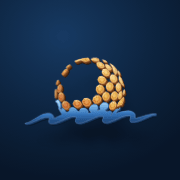
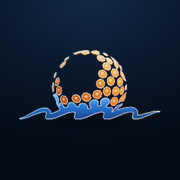
Tar bort kristallkronan: släta glasstenar i loggan, glas på alla delar, nya ikoner och delningsbild
Claude-Session: https://claude.ai/code/session_01YFUY7Y8xkNjWMJsVbpet1G

diff --git a/index.html b/index.html
@@ -15,7 +15,7 @@
 <meta property="og:image" content="https://ringenas-tranare.github.io/og-image.jpg">
 <meta property="og:image:width" content="1200">
 <meta property="og:image:height" content="630">
-<meta property="og:image:alt" content="Ringenäs Tränare – kristalloggan över havet vid Ringenäs">
+<meta property="og:image:alt" content="Ringenäs Tränare – glasloggan över havet vid Ringenäs">
 <meta name="twitter:card" content="summary_large_image">
 <script type="application/ld+json">{"@context":"https://schema.org","@type":"SportsActivityLocation","name":"Ringenäs Tränare","description":"Golflektioner, custom fitting, kurser och Trackman-simulator med PGA-tränare på Ringenäs Golf.","url":"https://ringenas-tranare.github.io/","image":"https://ringenas-tranare.github.io/og-image.jpg","telephone":"+4635161590","email":"oskar@ringenas.com","address":{"@type":"PostalAddress","streetAddress":"Strandlida 469","postalCode":"305 91","addressLocality":"Halmstad","addressCountry":"SE"},"parentOrganization":{"@type":"Organization","name":"Ringenäs Golf AB","url":"https://ringenas.com/"},"sameAs":["https://instagram.com/ringenastranare"]}</script>
 <link rel="manifest" href="manifest.webmanifest">
@@ -360,7 +360,7 @@ nav button span{translate:none!important}
 nav button.on::before{display:none!important}
 .hero::before{display:none!important}
 body:not([data-view="home"]) .scene.bd{opacity:.4}
-/* === Synk, installknapp, kristallogga, blåsande vågor === */
+/* === Synk, installknapp, logga, blåsande vågor === */
 .scene.bd{transform:none!important}
 .inst{position:absolute;top:12px;right:12px;z-index:3;display:inline-flex;align-items:center;gap:6px;width:auto;min-height:36px;padding:.4em .8em;border-radius:99px;font-size:.75rem;font-weight:700;letter-spacing:.04em;color:#eef4fa;background:rgba(255,255,255,.1);border:1px solid rgba(255,255,255,.22);-webkit-backdrop-filter:blur(10px);backdrop-filter:blur(10px)}
 .inst .i{width:16px;height:16px}
@@ -370,8 +370,7 @@ body:not([data-view="home"]) .scene.bd{opacity:.4}
 .sheetc{width:min(100%,460px);padding:22px;border-radius:22px;background:rgba(20,34,52,.92);border:1px solid rgba(255,255,255,.16);box-shadow:0 20px 50px rgba(0,0,0,.5);text-align:center;animation:fi .25s ease}
 .sheetc h2{margin-left:auto;margin-right:auto}
 .sheetc p{color:#dbe5ee;line-height:1.55}
-.lg.big{width:170px!important;height:auto!important;aspect-ratio:1.94;filter:drop-shadow(0 0 1px rgba(255,255,255,.95)) drop-shadow(0 0 16px rgba(170,215,255,.45)) drop-shadow(0 12px 18px rgba(0,0,0,.45))!important;transform:perspective(600px) rotateX(10deg);animation:crystal 9s ease-in-out infinite!important}
-@keyframes crystal{0%,100%{transform:perspective(600px) rotateX(10deg) rotateY(-12deg)}50%{transform:perspective(600px) rotateX(10deg) rotateY(12deg)}}
+.lg.big{width:170px!important;height:auto!important;aspect-ratio:1.94;filter:drop-shadow(0 0 1px rgba(255,255,255,.95)) drop-shadow(0 0 16px rgba(170,215,255,.45)) drop-shadow(0 12px 18px rgba(0,0,0,.45))!important;transform:none;animation:none!important}
 @keyframes swayA2{from{transform:translateX(-4%) scaleX(1.12)}to{transform:translateX(4%) scaleX(1.12)}}
 @keyframes swayB2{from{transform:translateX(4%) scaleX(1.12)}to{transform:translateX(-4%) scaleX(1.12)}}
 .wave .w1,.wave .w2,.wave .w3,.wave .c2{transform-box:fill-box;transform-origin:center}
@@ -481,7 +480,7 @@ html,body{overscroll-behavior-y:none}
 html{min-height:100%;background:#0b141d}
 main{min-height:calc(100lvh + 1px);box-sizing:border-box}
 @supports not (height:100lvh){main{min-height:calc(100vh + 1px)}}
-/* === Kristallogga 3D + rörelse === */
+/* === Glasloggan 3D + rörelse === */
 .xl{position:relative;width:min(236px,64vw);aspect-ratio:216/118;margin:0 auto;transform-style:preserve-3d;cursor:pointer;-webkit-tap-highlight-color:transparent;touch-action:pan-y}
 .xl>svg{position:absolute;inset:0;width:100%;height:100%;overflow:visible;pointer-events:none}
 .xl>svg.xd{width:0;height:0}
@@ -897,13 +896,25 @@ body.sun .card,body.sun #result,body.sun .ex{box-shadow:inset 0 1px 0 #fff,0 10p
 /* Mörk navy-bas bakom glaset */
 body:not(.sun){background:radial-gradient(120% 80% at 50% 0%,#132a45 0%,#0a1a2e 45%,#050d18 100%) fixed!important}
 body:not(.sun) .scene.bd{filter:brightness(.82) saturate(1.05)}
-/* Kristalloggan i Liquid Glass: genomskinliga glasstenar i bärnsten, vågen i klart blått glas,
-   skimrande glaskant (vit/blå/rosa/guld) och djup som syns igenom glaset */
+/* Glasloggan i Liquid Glass: släta, genomskinliga glasstenar i bärnsten (inga facetter, ingen kristallkrona),
+   vågen i klart blått glas, skimrande glaskant (vit/blå/rosa/guld) och djup som syns igenom glaset */
 .xl .b{fill:url(#xl-cg);fill-opacity:.82}
 .xl .sl{opacity:.5}
 .xl .sh{opacity:.32}
 .xl .o{stroke:url(#xl-rim);stroke-opacity:1;stroke-width:.85}
-.xl .tf polygon:not(.o):not(.b){stroke:rgba(255,255,255,.28)}
+.xl .tf polygon:not(.o):not(.b){stroke:none}
+/* Övriga delar i samma navy Liquid Glass: rutor, admin, stegknappar, prispall, storbild */
+body:not(.sun) .sheetc{background:var(--lq-sheen),linear-gradient(180deg,rgba(10,26,46,.86),rgba(6,16,30,.92))!important;border:1px solid rgba(255,255,255,.28)!important;box-shadow:var(--lq-shadow)!important;-webkit-backdrop-filter:var(--lq-blur);backdrop-filter:var(--lq-blur);border-radius:30px!important}
+body:not(.sun) .admrow{background:var(--lq-sheen),linear-gradient(180deg,rgba(12,30,52,.7),rgba(7,18,33,.8));border:1px solid rgba(255,255,255,.2);box-shadow:var(--lq-edge),0 8px 22px rgba(0,0,0,.25);border-radius:22px}
+body:not(.sun) .adma button:not(.gold):not(.danger):not(.tvbtn):not(.codepill){background:linear-gradient(180deg,rgba(255,255,255,.14),rgba(255,255,255,.04));border:1px solid rgba(255,255,255,.22);box-shadow:inset 0 1px 0 rgba(255,255,255,.4);border-radius:14px}
+body:not(.sun) .stp .sb{background:linear-gradient(180deg,rgba(255,255,255,.18),rgba(255,255,255,.04));border-color:rgba(255,255,255,.3);box-shadow:inset 0 1.5px 0 rgba(255,255,255,.5),0 4px 12px rgba(0,0,0,.3)}
+.pd .block{box-shadow:inset 0 1.5px 0 rgba(255,255,255,.55),inset 0 -10px 18px -10px rgba(255,255,255,.25),0 8px 20px rgba(0,0,0,.3)}
+.codepill,.tvbtn,button.gold,.step .num{box-shadow:inset 0 1.5px 0 rgba(255,255,255,.6),inset 0 -6px 12px -6px rgba(120,80,0,.35),0 4px 12px rgba(224,187,74,.25)!important}
+body:not(.sun) .tvr{box-shadow:var(--lq-edge),0 8px 22px rgba(0,0,0,.28)}
+/* Lilla loggan (toppen, Spela, storbild) i samma glas */
+.lg .lgd{fill-opacity:.88;stroke:#fff;stroke-opacity:.7;stroke-width:.8}
+.lg .lgw{fill-opacity:.88;stroke:#fff;stroke-opacity:.6;stroke-width:.8}
+.lg{filter:drop-shadow(0 0 6px rgba(150,215,255,.25)) drop-shadow(0 4px 8px rgba(0,0,0,.4))}
 .xl .t{fill:url(#xl-gloss);fill-opacity:calc(var(--t,.25) * 3.6)}
 .xl .g{fill:url(#xl-gw);fill-opacity:.85;stroke:url(#xl-rim);stroke-opacity:1;stroke-width:.85}
 .xl #xl-sheenr{mix-blend-mode:screen}
@@ -925,7 +936,7 @@ body:not(.sun) .scene.bd{filter:brightness(.82) saturate(1.05)}
 <symbol id="i-ext" viewBox="0 0 24 24"><path d="M7 17L17 7M8 7h9v9"/></symbol>
 <symbol id="i-next" viewBox="0 0 24 24"><path d="M9 6l6 6-6 6"/></symbol>
 <symbol id="i-back" viewBox="0 0 24 24"><path d="M19 12H5M11 6l-6 6 6 6"/></symbol>
-<linearGradient id="lg-dots" gradientUnits="userSpaceOnUse" x1="150" y1="58" x2="60" y2="140"><stop offset="0" stop-color="#fff3c4"/><stop offset=".4" stop-color="#f6c24f"/><stop offset=".75" stop-color="#ec8f2e"/><stop offset="1" stop-color="#cf5f28"/></linearGradient><linearGradient id="lg-wave" gradientUnits="userSpaceOnUse" x1="0" y1="120" x2="200" y2="158"><stop offset="0" stop-color="#d6ecff"/><stop offset=".45" stop-color="#6aaee6"/><stop offset="1" stop-color="#1f4f8f"/></linearGradient><linearGradient id="lg-crystal" x1="0" y1="0" x2=".35" y2="1"><stop offset="0" stop-color="#ffffff" stop-opacity=".98"/><stop offset=".28" stop-color="#e3f1ff" stop-opacity=".82"/><stop offset=".46" stop-color="#9fc4e8" stop-opacity=".62"/><stop offset=".53" stop-color="#ffffff" stop-opacity=".95"/><stop offset=".6" stop-color="#bcd8f2" stop-opacity=".7"/><stop offset=".74" stop-color="#f6dd8e" stop-opacity=".95"/><stop offset="1" stop-color="#b58b24" stop-opacity=".95"/></linearGradient>
+<linearGradient id="lg-dots" gradientUnits="userSpaceOnUse" x1="150" y1="58" x2="60" y2="140"><stop offset="0" stop-color="#fff3c4"/><stop offset=".4" stop-color="#f6c24f"/><stop offset=".75" stop-color="#ec8f2e"/><stop offset="1" stop-color="#cf5f28"/></linearGradient><linearGradient id="lg-wave" gradientUnits="userSpaceOnUse" x1="0" y1="120" x2="200" y2="158"><stop offset="0" stop-color="#d6ecff"/><stop offset=".45" stop-color="#6aaee6"/><stop offset="1" stop-color="#1f4f8f"/></linearGradient>
 <symbol id="i-logo" viewBox="0 56.0 200 103.0"><path class="lgd" fill="url(#lg-dots)" fill-rule="evenodd" stroke="#fff" stroke-opacity=".35" stroke-width=".5" d="M138.2 126.2 136.8 125.8 134.0 126.2 132.3 127.2 130.3 129.5 129.3 131.8 129.2 134.8 130.0 136.8 130.8 137.7 132.8 138.5 134.3 138.3 136.3 137.5 138.8 135.0 140.0 132.2 140.2 129.5 139.7 127.8ZM59.8 123.7 58.0 125.2 57.2 127.2 57.2 129.3 58.0 132.0 58.8 133.3 61.5 135.7 63.0 136.2 65.5 136.0 67.3 134.5 67.8 133.5 68.0 131.7 67.7 128.7 66.7 126.7 64.0 124.2 62.3 123.5ZM75.8 123.3 74.0 125.7 74.0 128.7 75.0 130.7 76.2 132.0 78.3 133.5 80.2 134.0 83.7 133.8 85.8 132.3 86.8 130.5 86.8 128.2 85.8 125.8 84.3 124.2 82.3 123.0 80.2 122.3 78.3 122.3ZM90.8 120.3 88.8 122.3 88.0 124.7 88.3 127.2 90.0 129.8 92.2 131.5 93.8 132.0 97.7 131.8 99.5 130.7 100.7 129.3 101.3 127.3 101.3 125.5 101.0 124.2 100.0 122.3 97.3 120.2 95.0 119.5 93.3 119.5ZM151.5 119.3 150.8 119.8 149.7 122.3 149.0 123.0 146.8 123.5 144.0 126.5 142.3 129.3 141.8 131.0 141.0 132.3 141.0 134.2 141.3 134.7 141.8 134.8 142.7 134.5 144.5 132.8 146.2 130.5 146.8 130.8 146.7 132.5 147.0 132.8 147.5 132.8 147.8 132.5 149.7 128.7 151.7 122.5 151.8 119.7ZM114.0 116.2 111.8 115.7 108.5 116.0 106.8 117.0 105.2 118.7 104.0 121.0 104.0 124.2 105.2 126.2 106.5 127.3 108.8 128.2 111.2 128.2 112.5 127.8 114.2 127.0 115.7 125.7 116.5 124.5 117.2 122.2 117.0 119.8 116.0 117.8ZM124.0 110.7 122.5 111.0 120.2 113.0 119.2 114.8 118.8 117.7 119.2 120.0 120.2 122.0 121.7 123.5 123.7 124.3 125.0 124.3 127.2 123.5 128.8 121.7 129.8 119.2 129.8 116.0 128.8 113.3 127.3 111.7 125.7 110.8ZM138.5 110.5 136.8 110.5 135.2 111.2 133.7 112.7 132.2 115.7 132.0 118.8 132.7 121.2 134.2 123.0 135.8 123.8 138.0 123.7 139.3 122.8 140.7 121.5 141.8 119.3 141.8 113.5 140.3 111.3ZM147.7 110.0 146.3 110.3 145.5 111.2 144.2 113.3 143.7 115.3 143.0 116.5 143.0 121.7 144.0 123.0 145.2 123.0 146.5 121.8 147.7 120.2 148.0 118.7 148.7 117.5 149.0 115.2 149.0 111.8 148.5 110.5ZM55.2 109.5 53.7 110.2 52.2 112.2 51.5 114.8 51.5 117.8 52.0 120.2 52.5 121.2 53.8 122.7 55.5 123.2 56.8 122.7 58.7 120.0 59.0 118.3 59.0 114.5 58.7 112.7 57.7 111.0 56.7 110.0ZM152.3 107.8 151.3 108.5 150.8 110.5 150.7 115.0 151.2 116.0 151.7 116.0 152.0 115.7 152.8 112.8 152.8 108.3ZM47.0 104.3 46.2 104.5 45.8 107.5 46.0 117.3 46.2 118.2 46.7 118.5 47.5 117.7 47.8 116.0 47.8 107.5 47.7 105.7ZM114.3 99.5 112.3 100.2 110.2 102.2 109.2 104.2 109.0 107.7 110.2 110.5 112.2 112.3 113.7 113.0 116.5 113.0 119.0 111.7 120.3 110.0 121.2 107.5 121.2 105.2 120.5 102.8 118.7 100.7 116.5 99.7ZM143.7 97.2 142.2 97.5 140.8 98.7 140.2 99.8 139.3 103.0 139.3 104.8 140.0 107.8 141.0 109.5 141.8 110.3 143.0 110.8 144.2 110.7 145.7 109.5 146.8 107.2 147.2 104.7 147.0 102.0 146.3 99.7 145.3 98.2ZM54.3 97.2 53.2 97.5 52.2 98.3 51.0 100.2 50.8 101.2 50.0 102.8 49.5 105.3 49.5 108.3 50.0 109.7 50.8 110.3 51.5 110.3 52.3 109.8 53.7 108.3 54.7 106.5 55.7 103.0 55.7 98.8 55.0 97.7ZM129.0 95.8 127.8 96.2 126.7 97.0 125.2 99.0 124.5 101.8 124.5 103.0 125.0 105.7 126.8 108.2 127.8 108.8 129.0 109.2 131.2 109.2 132.3 108.8 134.5 106.7 135.5 103.8 135.5 101.2 134.8 99.0 133.5 97.2 132.2 96.2 131.2 95.8ZM50.8 90.2 50.3 90.2 49.8 90.7 48.2 93.8 47.5 96.5 47.5 97.5 47.8 97.8 48.5 97.8 50.7 94.0 51.2 90.7ZM144.5 86.3 143.8 86.8 143.7 87.3 143.7 90.0 144.2 92.5 144.8 93.8 145.2 95.3 147.5 98.8 149.3 99.2 149.7 99.5 150.2 102.2 151.2 104.5 151.5 104.5 151.8 104.0 151.8 103.0 150.5 97.8 149.0 95.5 148.7 93.2 146.8 88.8 145.8 87.3ZM113.7 87.2 112.2 88.7 111.8 89.5 112.0 93.2 113.7 95.7 116.5 97.5 119.0 98.0 122.0 97.5 123.8 96.0 124.7 94.5 124.7 91.8 123.7 89.7 122.0 88.0 120.0 86.8 118.2 86.2 116.0 86.2ZM133.5 84.2 132.5 84.7 131.2 86.0 130.8 86.8 130.7 90.2 131.2 92.3 132.3 94.2 133.8 95.7 135.5 96.7 138.8 96.7 140.7 95.2 141.2 93.8 141.5 92.0 140.8 88.8 139.2 86.3 137.8 85.2 135.2 84.0ZM142.2 78.2 141.8 78.7 142.0 79.8 143.3 83.0 145.0 85.5 146.0 85.7 146.3 85.2 146.2 84.2 144.7 80.7 142.7 78.2ZM119.5 76.0 118.3 77.7 118.0 79.2 118.8 82.0 120.7 84.5 122.5 85.8 125.5 86.8 127.3 86.7 128.8 85.8 129.7 85.0 130.3 83.2 130.0 80.7 128.7 78.2 127.8 77.5 127.5 76.8 126.7 76.2 125.7 76.0 123.5 75.0 121.7 75.0 120.5 75.3ZM64.8 73.0 63.3 73.0 59.3 76.5 56.2 81.3 56.0 82.3 56.3 83.2 57.0 83.3 58.3 82.8 61.8 79.8 64.8 75.7 65.3 73.5ZM123.3 68.2 123.0 69.0 123.2 70.5 124.8 73.3 126.7 75.2 127.0 75.8 130.3 77.8 132.8 77.8 133.3 76.8 132.8 74.7 131.5 72.5 130.2 71.0 128.0 69.2 126.0 68.0 124.2 67.8ZM130.3 66.8 130.2 67.7 131.2 69.2 135.2 73.3 134.7 75.2 135.0 77.5 137.2 82.2 139.0 84.7 140.2 85.7 141.0 86.0 141.7 85.8 142.0 85.2 141.8 83.5 140.8 81.3 140.7 80.3 139.0 77.7 139.3 77.0 140.5 77.0 140.5 76.2 137.5 72.5 133.8 69.0 131.2 67.0ZM69.5 67.0 68.2 67.0 66.0 68.2 63.2 70.5 62.7 71.2 62.7 71.7 63.0 72.0 64.3 72.0 67.3 70.0 69.3 68.0 69.7 67.3ZM110.2 65.3 109.8 66.2 110.0 68.3 110.8 69.7 112.8 71.7 114.8 72.8 118.5 73.8 120.5 73.5 121.8 72.5 122.0 70.7 121.7 69.2 119.5 66.7 117.5 65.3 114.7 64.3 113.3 64.2 111.8 64.3ZM119.0 61.0 119.0 61.7 120.2 62.8 122.7 64.5 125.3 65.5 126.0 65.3 126.0 64.3 123.5 62.3 120.8 61.0ZM101.2 59.3 101.2 59.8 103.2 61.3 107.3 62.7 113.3 62.8 114.3 62.2 114.3 61.3 113.5 60.7 113.5 59.7 113.2 59.2 110.0 58.0 105.7 57.7 104.5 58.5 102.8 58.5 101.7 58.8ZM99.3 61.2 98.0 60.2 96.3 60.0 95.2 59.5 95.5 59.0 96.3 58.8 97.3 58.2 97.2 57.2 91.7 57.0 90.3 57.3 89.3 58.0 89.3 59.7 87.3 60.0 86.8 59.5 86.8 58.8 86.5 58.5 82.5 59.2 75.3 62.0 73.8 63.0 73.7 63.7 74.5 64.0 79.3 62.8 81.0 62.0 82.5 61.7 85.5 60.2 86.2 60.3 86.0 61.5 87.7 62.7 91.3 63.2 95.2 63.2 98.0 62.8 99.2 62.0ZM87.8 146.3 88.2 145.8 88.7 145.8 89.2 146.5 88.3 147.0ZM57.2 139.2 57.5 139.2Z"/><path class="lgw" fill="url(#lg-wave)" stroke="#fff" stroke-opacity=".3" stroke-width=".5" d="M0.0 157.5 5.3 156.8 7.5 156.0 9.3 155.7 23.2 150.0 24.7 149.7 25.8 149.0 28.0 148.7 29.3 148.0 31.7 147.7 36.0 147.7 36.7 147.8 37.7 149.0 37.7 149.8 36.5 153.7 36.5 155.3 37.0 156.3 39.2 157.7 44.3 157.7 51.5 155.7 53.0 154.8 54.2 154.7 55.2 154.0 67.8 149.0 72.3 147.8 76.7 147.7 78.0 148.0 78.8 149.0 78.8 150.2 78.2 151.5 77.8 153.0 77.8 155.5 78.2 156.3 80.0 157.7 85.0 157.8 87.2 157.5 88.2 157.0 90.2 156.7 91.0 156.2 93.7 155.5 109.3 149.0 110.8 148.8 114.0 147.8 117.8 147.7 119.5 148.0 120.2 149.2 120.0 150.7 119.2 152.7 119.0 154.0 119.2 155.7 119.7 156.5 121.5 157.7 126.0 157.8 128.2 157.5 131.7 156.5 132.5 156.0 134.3 155.7 135.8 154.8 136.8 154.7 140.3 153.0 141.7 152.7 142.7 152.0 144.2 151.7 145.5 150.8 150.3 149.0 152.3 148.7 154.5 147.8 160.0 147.7 161.0 148.0 161.5 148.5 161.8 149.5 160.7 153.3 160.7 155.3 161.0 156.2 161.8 157.0 163.3 157.7 167.8 157.7 175.2 155.7 191.0 149.0 194.8 147.8 199.8 147.3 199.8 146.2 195.5 146.0 191.3 146.5 188.0 147.2 186.3 147.8 183.8 148.2 182.5 148.8 180.3 149.2 175.2 150.8 172.8 151.2 170.8 151.8 168.5 151.8 168.0 151.2 168.3 150.0 168.3 147.8 167.5 145.0 166.7 143.8 164.8 142.2 162.3 141.0 158.3 140.3 153.2 140.7 146.8 142.0 145.0 142.8 143.0 143.2 141.8 143.8 139.3 144.5 139.3 143.5 140.7 142.0 142.5 139.0 143.8 139.0 144.7 138.3 145.8 136.7 146.0 135.7 145.3 135.3 143.5 137.7 142.8 137.7 141.5 137.0 139.5 138.0 138.5 138.8 135.0 142.7 133.5 145.5 133.3 146.3 132.3 147.2 131.2 147.3 131.2 146.5 132.5 144.7 132.8 143.7 132.8 142.3 132.5 141.7 131.5 140.8 130.0 140.3 125.8 141.0 123.5 139.7 122.7 138.8 123.2 138.0 124.3 137.7 126.5 135.7 127.5 134.0 127.8 132.5 127.7 130.3 127.0 129.2 125.8 128.0 124.0 127.2 120.3 127.3 118.3 128.2 116.2 130.2 115.2 131.7 114.8 133.8 115.2 136.2 116.2 137.3 116.2 137.8 115.5 138.3 114.0 138.3 112.2 138.8 111.2 138.8 110.7 138.3 111.8 136.0 111.8 132.8 110.8 131.3 109.5 130.3 108.0 129.8 105.2 129.8 103.8 130.2 102.3 131.0 100.3 132.8 99.0 135.5 99.2 138.3 99.7 139.2 101.8 141.2 101.8 141.5 101.3 142.0 100.2 142.2 99.2 142.8 97.3 143.2 97.0 142.8 96.8 139.8 95.8 138.0 94.2 136.3 92.2 135.2 88.5 134.8 86.5 135.3 85.0 136.7 84.2 138.2 84.0 140.0 83.3 140.5 80.5 139.2 79.7 138.3 78.8 136.8 77.2 135.2 75.0 134.0 73.3 133.7 71.7 133.7 70.5 134.0 69.0 135.3 68.3 136.8 68.5 139.2 68.0 139.8 64.0 141.3 63.3 141.3 60.5 136.8 58.2 134.5 57.2 134.3 56.8 134.7 56.8 138.5 56.0 138.2 55.8 137.5 53.7 134.7 53.7 134.3 54.8 133.3 55.0 131.7 54.7 128.7 53.7 125.7 52.5 123.3 50.8 121.3 50.0 121.2 48.7 123.0 47.5 122.3 47.3 123.2 48.0 125.3 48.3 125.7 49.3 125.3 49.8 126.0 50.0 127.3 51.2 130.5 52.2 132.0 52.2 132.7 51.5 133.3 52.0 135.3 55.2 140.8 57.0 143.2 57.2 143.7 56.7 144.5 54.8 145.2 54.0 145.8 50.0 147.8 49.0 148.0 47.3 149.0 44.3 149.8 43.8 149.3 43.7 147.5 42.8 145.3 40.8 143.2 39.0 142.2 37.2 141.8 33.2 141.8 30.7 142.2 29.2 142.8 27.3 143.2 23.2 145.0 7.0 154.0 2.7 155.8 0.0 156.2Z"/></symbol>
 </defs></svg>
 <svg class="scene bd" viewBox="0 0 400 260" preserveAspectRatio="xMidYMid slice" aria-hidden="true"><defs>
@@ -1546,7 +1557,7 @@ function sessRow(c,compact,inside){
   if(window.visualViewport){const vv=visualViewport;const chk=()=>{const open=vv.height<window.innerHeight*0.78;if(!open&&!isField(document.activeElement))set(false);else if(open)set(true)};vv.addEventListener("resize",chk)}
 })();
 
-/* === Kristallogga i 3D + rörelse (mus, scroll, lutning) === */
+/* === Glasloggan i 3D + rörelse (mus, scroll, lutning) === */
 (function(){
   const host=document.getElementById("xl");if(!host)return;
   const rm=matchMedia("(prefers-reduced-motion:reduce)").matches;
@@ -1569,21 +1580,17 @@ function sessRow(c,compact,inside){
     const inn=m.map(q=>[c[0]+(q[0]-c[0])*.5,c[1]+(q[1]-c[1])*.5]);
     const bin=v=>{const b=Math.round((Math.atan2(v[1]-c[1],v[0]-c[0])+off)/(TAU/NB));return((b%NB)+NB)%NB};
     top+='<polygon class="b" points="'+P(o)+'"/>';
-    for(let i=0;i<K;i++){
-      top+='<polygon class="e'+bin(m[i])+'" points="'+P([o[i],o[(i+1)%K],inn[i]])+'"/>';
-      top+='<polygon class="s'+bin(o[i])+'" points="'+P([o[i],inn[i],inn[(i-1+K)%K]])+'"/>';
-    }
     top+='<polygon class="t" points="'+P(inn)+'"/><polygon class="o" points="'+P(o)+'"/>';
     sil+='<polygon points="'+P(o)+'"/>';
     if(a>20)o.forEach(q=>cand.push(q));
   });
-  // Facettfärger: lätt regnbågsskimmer som i en kristallkrona
+  // (Facetter borttagna 2026-10: loggan är släta glasstenar i Liquid Glass, ingen kristallkrona)
   const hue=[48,40,32,22,14,52,58,44,36,28,18,50];
   let css="";for(let b=0;b<NB;b++)css+=".xl .e"+b+"{fill:hsl("+hue[b]+" 100% 93%);fill-opacity:var(--e"+b+",.15)}.xl .s"+b+"{fill:#7a3410;fill-opacity:var(--s"+b+",.2)}";
   const st=document.createElement("style");st.textContent=css;document.head.appendChild(st);
-  // Gnistor på kristallens hörn
+  // (Gnistor borttagna 2026-10 – ingen kristallkrona)
   let spk="";const star="M0-3.2L.55-.55 3.2 0 .55.55 0 3.2-.55.55-3.2 0-.55-.55Z";
-  for(let i=0;i<10&&cand.length;i++){const q=cand.splice(Math.floor(rnd()*cand.length),1)[0];spk+='<g transform="translate('+q[0].toFixed(1)+' '+q[1].toFixed(1)+') scale('+(.55+rnd()*.6).toFixed(2)+')"><path class="sp" d="'+star+'" style="animation-delay:'+(rnd()*4).toFixed(2)+'s"/></g>'}
+  for(let i=0;i<0&&cand.length;i++){const q=cand.splice(Math.floor(rnd()*cand.length),1)[0];spk+='<g transform="translate('+q[0].toFixed(1)+' '+q[1].toFixed(1)+') scale('+(.55+rnd()*.6).toFixed(2)+')"><path class="sp" d="'+star+'" style="animation-delay:'+(rnd()*4).toFixed(2)+'s"/></g>'}
   const VB='viewBox="-8 48 216 118"';
   const N=12,STEP=1.2;let slices="";
   const mix=(a,b,t)=>"rgb("+a.map((v,i)=>Math.round(v+(b[i]-v)*t)).join(",")+")";

diff --git a/sw.js b/sw.js
@@ -3,7 +3,7 @@
 // Är nätet segt eller borta (vanligt ute på rangen) visas den sparade kopian direkt,
 // och den nya versionen hämtas i bakgrunden till nästa gång.
 // Resultat och topplistor (Supabase) sparas ALDRIG här – de hämtas alltid live.
-const CACHE = "ringenas-v2";
+const CACHE = "ringenas-v3";
 const TIMEOUT_MS = 3500;
 const SHELL = ["./", "manifest.webmanifest", "icon-192.png", "apple-touch-icon.png"];
 // Filer som aldrig ändras (versionsnummer i adressen) – får användas direkt från cachen.
